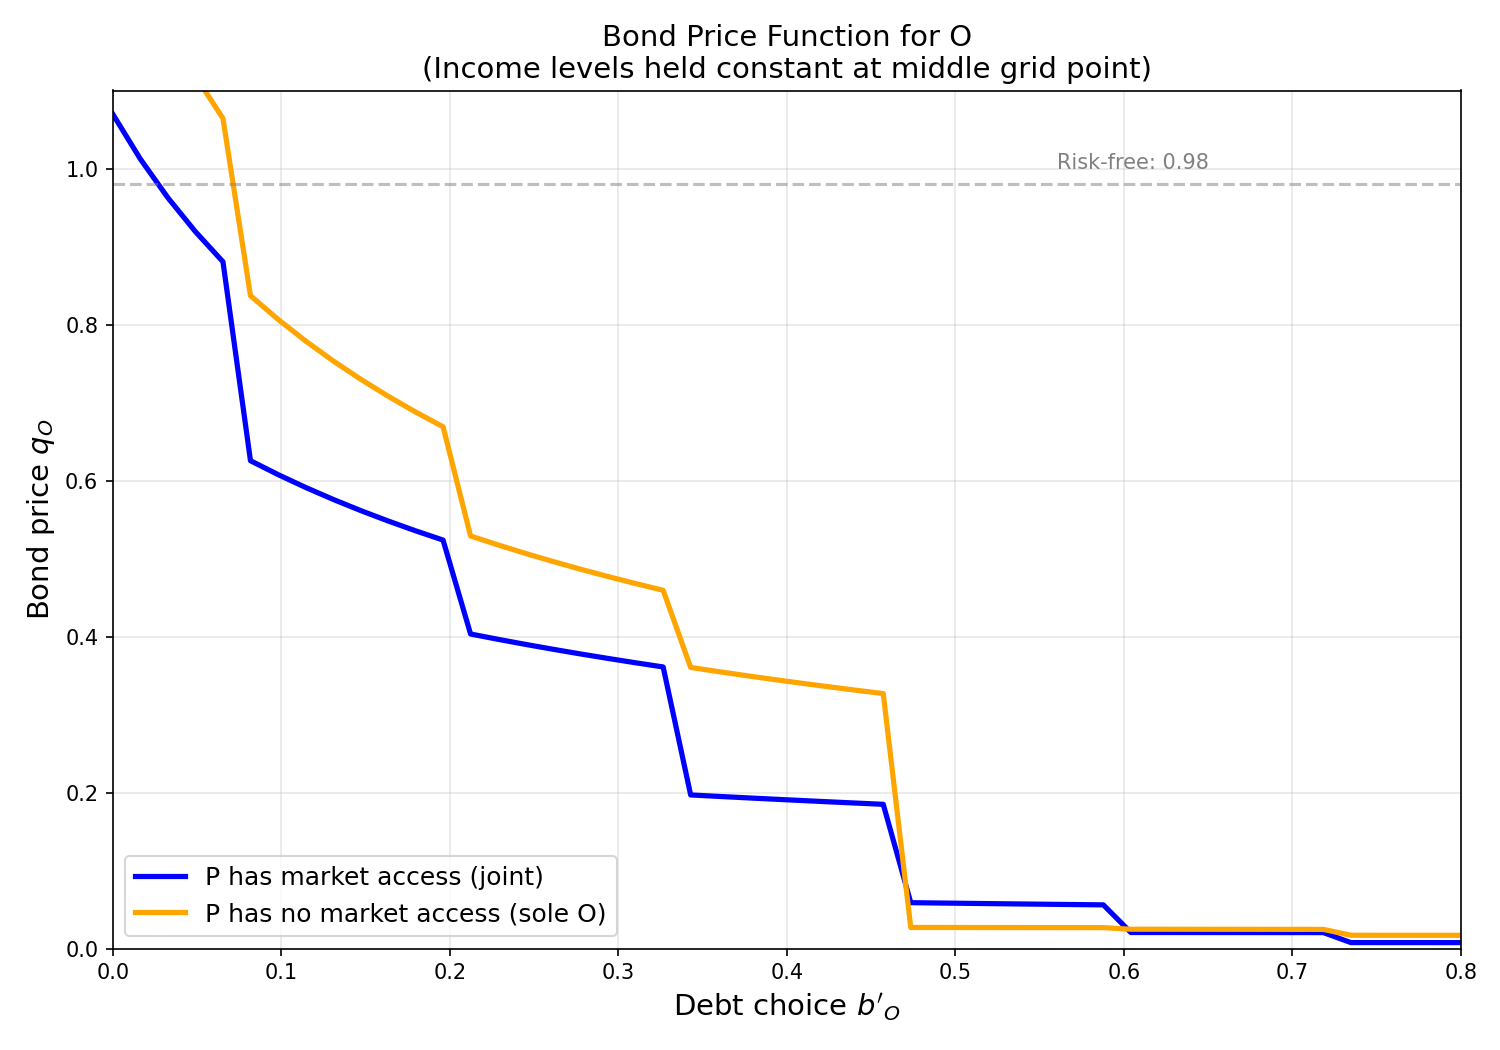
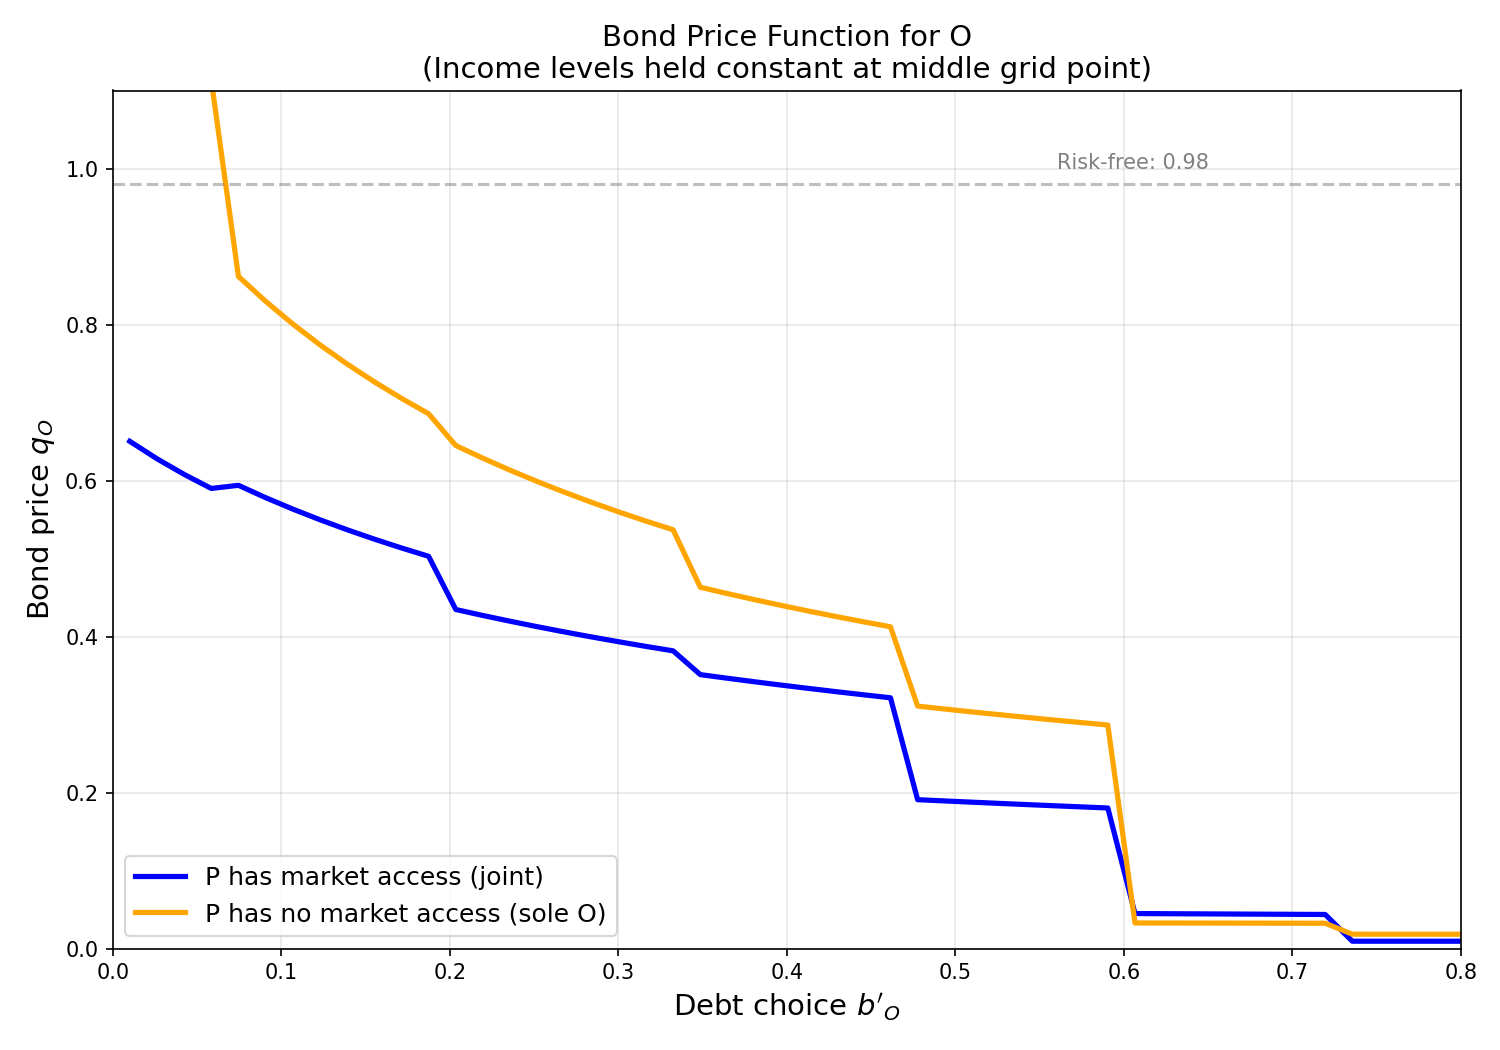
Fix numerical stability: tighter CL floor (0.01) and mu clamp (50)
The old CL floor of 1e-14 produced mu_tilde of 1e35 which caused
cascading numerical instability. Now CL is floored at 0.01 (giving
mu_max ~1000) and mu_tilde is clamped at 50 (CL ~0.04), which are
economically reasonable bounds for lender consumption.

diff --git a/plot_price_function.py b/plot_price_function.py
@@ -49,8 +49,8 @@ taumax = 0.8
 rhoA   = 0.02
 rhotau = 0.02
 rhoD   = 0.02
-xi_q   = 0.15  # conservative for stability with corrected pricing
-xi_V   = 0.20
+xi_q   = 0.30  # damping for MU
+xi_V   = 0.30  # damping for value/default
 
 EULER_GAMMA = 0.5772156649015329
 
@@ -561,8 +561,8 @@ def fixed_point_update(V_O_old, V_P_old, d_O_old, d_P_old, muL_old, sid_of_):
                 Eqb = Eqb/S if S>0 else 0.0
 
             CL = yL + (1.0-dO)*bO - (1.0-dO)*Eqb
-            if CL <= 1e-14:
-                CL = 1e-14
+            if CL <= 0.01:
+                CL = 0.01
             mu_tilde[sid] = CL**(-sigmaL)
             continue
 
@@ -649,8 +649,8 @@ def fixed_point_update(V_O_old, V_P_old, d_O_old, d_P_old, muL_old, sid_of_):
                 Eqb = Eqb/S if S>0 else 0.0
 
             CL = yL + (1.0-dP)*bP - (1.0-dP)*Eqb
-            if CL <= 1e-14:
-                CL = 1e-14
+            if CL <= 0.01:
+                CL = 0.01
             mu_tilde[sid] = CL**(-sigmaL)
             continue
 
@@ -898,14 +898,14 @@ def fixed_point_update(V_O_old, V_P_old, d_O_old, d_P_old, muL_old, sid_of_):
         Erep = (1.0-dO)*bO + (1.0-dP)*bP
         Epurch = (1.0-dO)*(EqO_rep + EqP_rep) + dO*(1.0-dP_dO1)*EqPb_dO1
         CL = yL + Erep - Epurch
-        if CL <= 1e-14:
-            CL = 1e-14
+        if CL <= 0.01:
+            CL = 0.01
         mu_tilde[sid] = CL**(-sigmaL)
 
     return V_O_new, V_P_new, d_O_new, d_P_new, mu_tilde
 
 # Solve fixed point
-max_iter = 500
+max_iter = 300
 tol = 1e-5
 
 print("\nStarting fixed point iteration...", flush=True)
@@ -913,7 +913,7 @@ for it in range(max_iter):
     V_O_new, V_P_new, d_O_new, d_P_new, mu_tilde = fixed_point_update(V_O, V_P, d_O, d_P, muL, sid_of)
 
     # Clamp mu_tilde to prevent numerical explosion
-    mu_max = 1e6
+    mu_max = 50.0
     mu_tilde = np.minimum(mu_tilde, mu_max)
 
     muL_new = (1.0-xi_q)*muL + xi_q*mu_tilde

diff --git a/solve_model.py b/solve_model.py
@@ -617,8 +617,8 @@ def fixed_point_update(V_O_old, V_P_old, d_O_old, d_P_old, muL_old, sid_of_):
                 Eqb = Eqb/S if S>0 else 0.0
 
             CL = yL + (1.0-dO)*bO - (1.0-dO)*Eqb
-            if CL <= 1e-14:
-                CL = 1e-14
+            if CL <= 0.01:
+                CL = 0.01
             mu_tilde[sid] = CL**(-sigmaL)
             continue
 
@@ -711,8 +711,8 @@ def fixed_point_update(V_O_old, V_P_old, d_O_old, d_P_old, muL_old, sid_of_):
                 Eqb = Eqb/S if S>0 else 0.0
 
             CL = yL + (1.0-dP)*bP - (1.0-dP)*Eqb
-            if CL <= 1e-14:
-                CL = 1e-14
+            if CL <= 0.01:
+                CL = 0.01
             mu_tilde[sid] = CL**(-sigmaL)
             continue
 
@@ -980,8 +980,8 @@ def fixed_point_update(V_O_old, V_P_old, d_O_old, d_P_old, muL_old, sid_of_):
         Erep = (1.0-dO)*bO + (1.0-dP)*bP
         Epurch = (1.0-dO)*(EqO_rep + EqP_rep) + dO*(1.0-dP_dO1)*EqPb_dO1
         CL = yL + Erep - Epurch
-        if CL <= 1e-14:
-            CL = 1e-14
+        if CL <= 0.01:
+            CL = 0.01
         mu_tilde[sid] = CL**(-sigmaL)
 
     return V_O_new, V_P_new, d_O_new, d_P_new, mu_tilde
@@ -995,7 +995,8 @@ for it in range(max_iter):
     V_O_new, V_P_new, d_O_new, d_P_new, mu_tilde = fixed_point_update(V_O, V_P, d_O, d_P, muL, sid_of)
 
     # Clamp mu_tilde to prevent numerical explosion
-    mu_max = 1e6
+    # muL of 50 corresponds to CL ≈ 0.04 (reasonable floor for lender consumption)
+    mu_max = 50.0
     mu_tilde = np.minimum(mu_tilde, mu_max)
 
     muL_new = (1.0-xi_q)*muL + xi_q*mu_tilde
